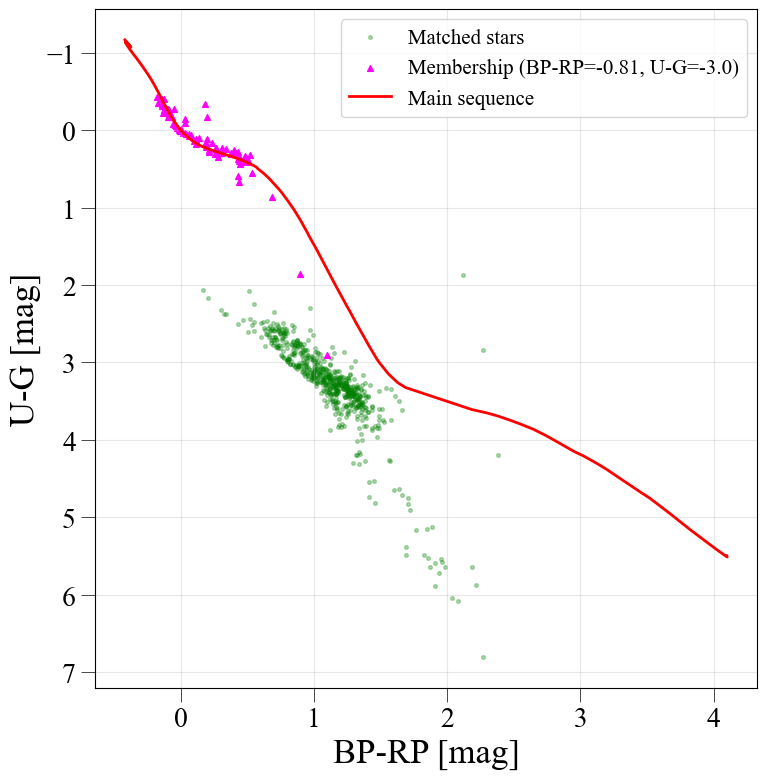
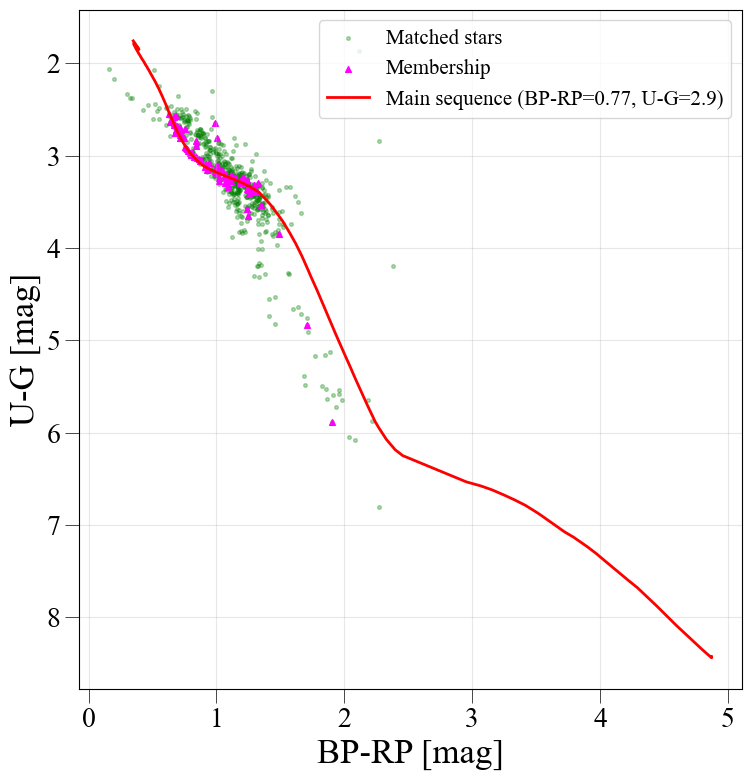
Adjusting not filtered stars, but MS. Changing readme

diff --git a/process_data.py b/process_data.py
@@ -53,7 +53,6 @@ def coords_reproject(cluster, coords, gaia_mag, plots=True):
         plot_cart(gaia_cart, uv_cart)
         print(f"Plots saved to plots folder.\n")
 
-
 def matching(cluster, gaia_mag, matchrad=3.0, trirad=0.001, nobj=40, plots=True):
     # Matching the datasets
     #http://spiff.rit.edu/match/match-0.16/match.html
@@ -299,7 +298,7 @@ def plot_cc(gaia_matched, uv_matched, gaia_filtered, uv_filtered, ms, colour1, c
         def update(val):
             x = sx.val
             y = sy.val
-            scatter_members.set_offsets(np.c_[gaia_filtered[colour1] + x, uv_filtered[colour2] + y])
+            scatter_ms.set_offsets(np.c_[ms[colour1] + x, ms[colour2] + y])
             ax.legend(loc='upper right', fontsize=15)
             fig.canvas.draw_idle()
             
@@ -316,7 +315,7 @@ def plot_cc(gaia_matched, uv_matched, gaia_filtered, uv_filtered, ms, colour1, c
         # Initial data points
         scatter_matched = ax.scatter(gaia_matched[colour1], uv_matched[colour2], color='green', s=7, alpha=0.3, label='Matched stars')
         scatter_members = ax.scatter(gaia_filtered[colour1], uv_filtered[colour2], color='magenta', s=17, marker='^', label=f'Membership')
-        ax.plot(ms[colour1], ms[colour2], color='red', linewidth=2, label='Main sequence')
+        scatter_ms = ax.scatter(ms[colour1], ms[colour2], color='red', s=5, label='Main sequence')
 
         # Add sliders for interactive update
         axcolor = 'lightgoldenrodyellow'
@@ -348,9 +347,9 @@ def plot_cc(gaia_matched, uv_matched, gaia_filtered, uv_filtered, ms, colour1, c
         plt.tight_layout()  
 
         ax2.scatter(gaia_matched[colour1], uv_matched[colour2], color='green', s=7, alpha=0.3, label='Matched stars')
-        ax2.scatter(gaia_filtered [colour1]+x_new, uv_filtered [colour2]+y_new, color='magenta', s=17, marker='^', label=f'Membership ({colour1}={x_new:.2}, {colour2}={y_new:.2})')
+        ax2.scatter(gaia_filtered [colour1], uv_filtered [colour2], color='magenta', s=17, marker='^', label='Membership')
 
-        ax2.plot(ms[colour1], ms[colour2], color='red', linewidth=2, label='Main sequence')
+        ax2.plot(ms[colour1]+x_new, ms[colour2]+y_new, color='red', linewidth=2, label=f'Main sequence ({colour1}={x_new:.2}, {colour2}={y_new:.2})')
         ax2.legend(loc='upper right', fontsize=15)
 
         fig2.savefig(f'plots/{colour1}_{colour2}.png', bbox_inches='tight')

diff --git a/README.md b/README.md
@@ -5,24 +5,40 @@ Pipeline's desined in Model–View–Controller architecture. Main parts of the 
 2) In that folder create .yaml file with name of your cluster exp. "Gulliver_27.yaml"
 
 3) In the same folder create new folder "input/" and put there your UV and GAIA data exp. "uv.csv" and "star_table_Gulliver_27.csv". 
-4) To obtain GAIA data use "get_stars_at_oc.py". To use it type in command line: "python3 get_stars_at_oc.py Gulliver_27 146.0801 -54.1154 0.12 19", where: Gulliver_27 is the name of the object (We need it only to navigate in folders, in general, GAIA doesn't provied cluster names. Be free to name it howewer you want, just make it the same name as folder and .yaml file from step 1) and 2)), 146.0801 is the RA, -54.1154 is the DEC, 0.12 is the search radius in degrees (Pick radius not too large, so it will be approxomatley the same as UV data radius. Or you have a risk to have 0 matched stars.), and 19 is the magnitude limit. 
+
+4) To obtain GAIA data use "get_stars_at_oc.py". To use it type in command line: "python3 get_stars_at_oc.py Gulliver_27 146.0801 -54.1154 0.12 19", where: Gulliver_27 is the name of the object (We need it only to navigate in folders, in general, GAIA doesn't provied cluster names. 
+
+Be free to name it howewer you want, just make it the same name as folder and .yaml file from step 1) and 2)), 146.0801 is the RA, -54.1154 is the DEC, 0.12 is the search radius in degrees (Pick radius not too large, so it will be approxomatley the same as UV data radius. Or you have a risk to have 0 matched stars.), and 19 is the magnitude limit. 
+
 5) UV data should contain 3 columns with names: "ra", "dec", "u". First two stands for coordinates and last stand for magnitude in U-filter
+
 GAIA data obtained by "get_stars_at_oc.py" should be in the same form always. (Sometimes first colums SOURCE_ID could be in lowercase. If it's so, change it to uppercase)
 
 6) In .yaml file add information about your cluster: "cluster",
+
 coordinates of the center of GAIA data: "coords",
+
 magnitude you will use for matching: "gaia_mag",
+
 would you like to make plots: "plots" (True - make plots / False - don't make plots),
+
 parameters for matching: "matchrad", "trirad", "nobj",
+
 colours you want to use for CC-diagram: "colour1", "colour2"
+
 do you want to adjust positions of obtained stars on CC-diagram, in order to get they offset from MS in that filter: "adjust" (True - adjust / False - don't adjust)
 
 7) Script has 4 procedures: 
-"coords_reproject" takes RA and DEC coordinates of objects from UV and GAIA data and using project_coords from Match script. More information avaliable by link above. 
+"coords_reproject" takes RA and DEC coordinates of objects from UV and GAIA data and using project_coords from Match script to project them on tangential plane and get X and Y coordinates. More information avaliable by link above. 
+
 "matching" matching UV and GAIA stars and gives as output lists of matched stars from both datasets. 
+
 "filtering" filters stars from Hunt catalogue of clusters memberships with probability of membership >0.7. At the end you will have lists of filtered stars from both datasets. 
+
 "cc_diagram" creates CC-diagram in colours given by "colour1", "colour2" in .yaml file. If you have "adjust : True", firstly you will see interactive plot, when you can adjust vertical and horisontal positions of filtered stars (pink triangles). After you adjusted them, so they will fit some part of MS, close poped up window and your plot will be saved in "plots/" directory. 
+
 8) To run the script procedure by procedure, type in the command line: "python3 controller.py Gulliver_27 coords_reproject", where "Gulliver_27" is the name or your cluster and "coords_reproject" is the name of procedure.
-9) In general case, you can run all the procedurer at onesm by typing: "python3 controller.py Gulliver_27 process", where process is the name of procedure which contains all previously mentioned procedures. RECCOMENDED to do it in this way.  
+
+9) In general case, you can run all the procedurer at ones by typing: "python3 controller.py Gulliver_27 process", where process is the name of procedure which contains all previously mentioned procedures. RECCOMENDED to do it in this way.  
 
 10) All of the parameters should be changes in .yaml file. Try to avoid modifications of controller. and process_data.py if you're not sure what you're doing. 
